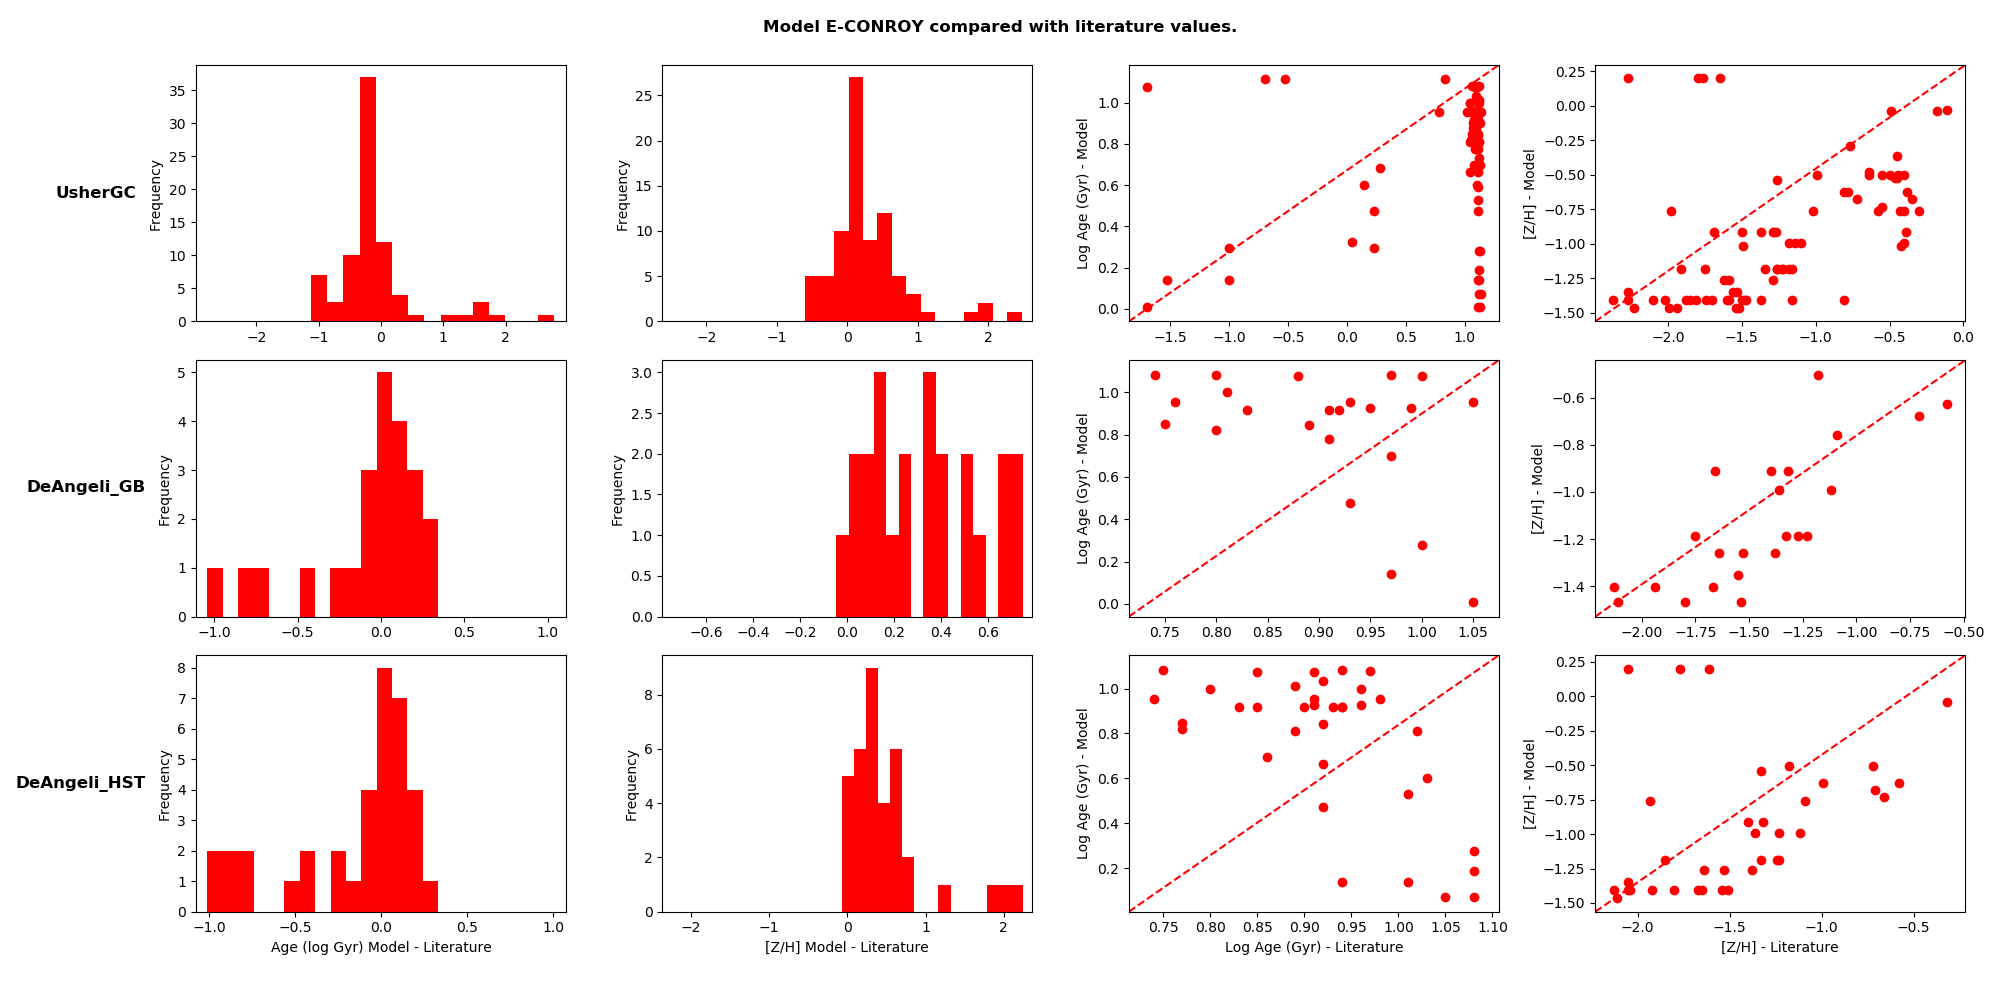
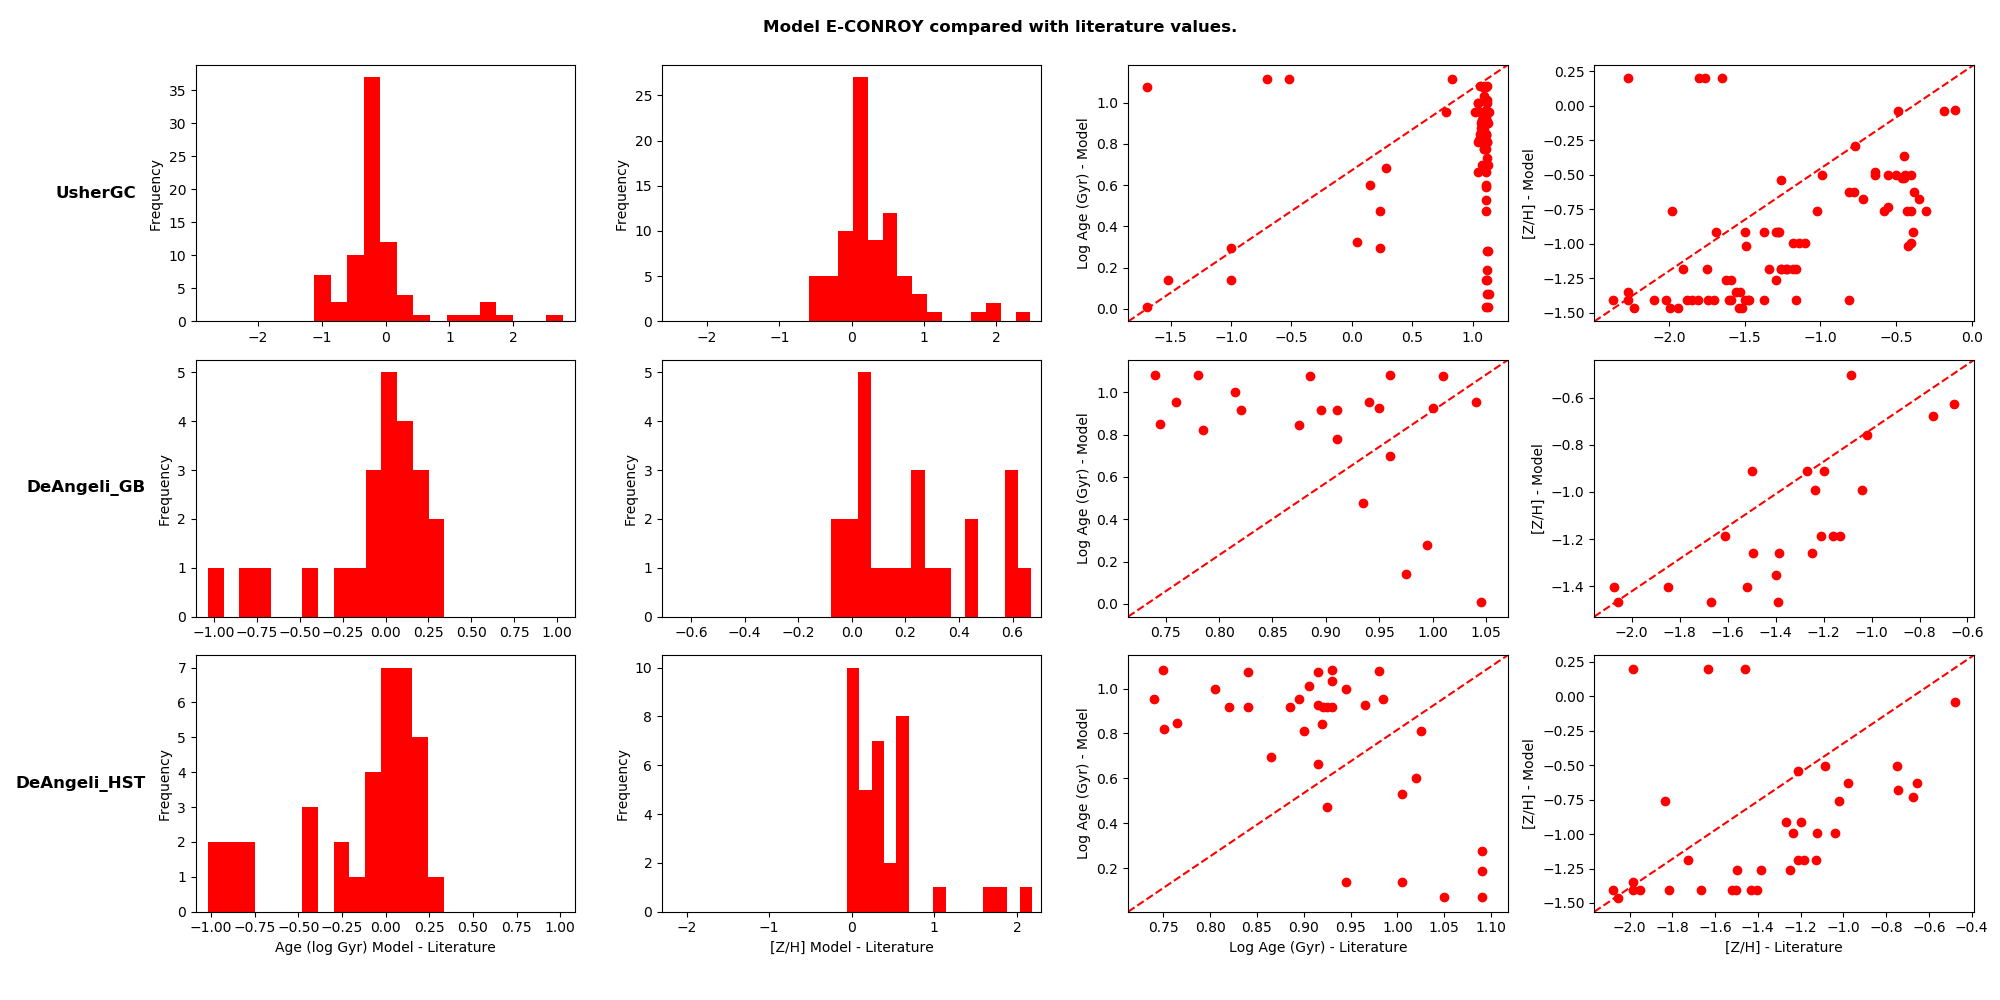
Added model results

diff --git a/output/dissertation/compare_model_to_lit.py b/output/dissertation/compare_model_to_lit.py
@@ -31,12 +31,19 @@ if __name__ == "__main__":
 
 	paths = [
 		"output/dissertation/MASTAR_TH_V0.2_KR",
+		"output/dissertation/MASTAR_TH_V0.2_KR/downgraded",
 		"output/dissertation/MASTAR_E_V0.2_KR",
+		"output/dissertation/MASTAR_E_V0.2_KR/downgraded",
 		"output/dissertation/CONROY_E_KR/downgraded",
 	]
 
 	#Loop through the model data
 	for path in paths:
+
+		if path.split('/')[-1] == "downgraded" and not "CONROY" in path.split('/')[-2]:
+			downgraded_to_conroy = "(downgraded)"
+		else:
+			downgraded_to_conroy = ""
 	 
 	 	#Get every file in the path of the folder and store in a list
 		files = [os.path.join(path, f) for f in os.listdir(path) if os.path.isfile(os.path.join(path, f))]
@@ -89,22 +96,33 @@ if __name__ == "__main__":
 					lit_age   = float(lit_values['Age'])
 					lit_metal = float(lit_values['[Fe/H]'])
 				
+				#DeAngeli_GB and HST have 2 values for metal and age. Have taken the average?
 				elif lit_file == "DeAngeli_GB.txt":
 					
-					lit_age   = float(10**lit_values['Age1'])
-					lit_metal = float(lit_values['[Fe/H]zw'])
+					lit_age1   = float(10**lit_values['Age1'])
+					lit_age2   = float(10**lit_values['Age2'])
+					lit_metal1 = float(lit_values['[Fe/H]zw'])
+					lit_metal2 = float(lit_values['[Fe/H]cg'])
 
+					lit_age   = (lit_age1 + lit_age2)/2
+					lit_metal = (lit_metal1 + lit_metal2) / 2
+					
 				elif lit_file == "DeAngeli_HST.txt":
 					
-					lit_age   = float(10**lit_values['Age1'])
-					lit_metal = float(lit_values['[Fe/H]zw'])
+					lit_age1   = float(10**lit_values['Age1'])
+					lit_age2   = float(10**lit_values['Age2'])
+					lit_metal1 = float(lit_values['[Fe/H]zw'])
+					lit_metal2 = float(lit_values['[Fe/H]cg'])
+
+					lit_age   = (lit_age1 + lit_age2)/2
+					lit_metal = (lit_metal1 + lit_metal2) / 2
 
 				#Extract the model data
 				hdul        = fits.open(file)
 				model_age   = float(10**hdul[1].header['age_lightW'])
 
 				model_metal = float(hdul[1].header['metallicity_lightW'])
-				model       = hdul[1].header["MODEL"]
+				model       = hdul[1].header["MODEL"] + downgraded_to_conroy
 				
 				hdul.close()
 

diff --git a/run/inputs.py b/run/inputs.py
@@ -2,7 +2,7 @@ from astropy.io import fits
 import numpy as np
 import os
 
-dissertation_results = False
+dissertation_results = True
 MASTAR_VERSION      = "v0.2"
 """
 input_file      = [
@@ -19,9 +19,10 @@ ask_to_override     = False
 write_results       = True
 
 # choose model: 'm11', 'MaStar', 'CONROY'
-model_key = 'CONROY'
-model_lib = ['E-CONROY'] 
+model_key = 'MaStar'
+model_lib = ['Th-MaStar'] 
 imfs      = ['kr']
+downgrade_to_conroy = True
 
 r_instrument_value = 2000 
 
@@ -72,12 +73,12 @@ max_iterations        = 10
 pdf_sampling          = 300  
 
 ############################################################################################################
-
+"""
 if model_key.upper() == "CONROY":
     downgrade_to_conroy = True
 else:
     downgrade_to_conroy = False
-
+"""
 directory = model_key
 
 for mod_lib in model_lib:
